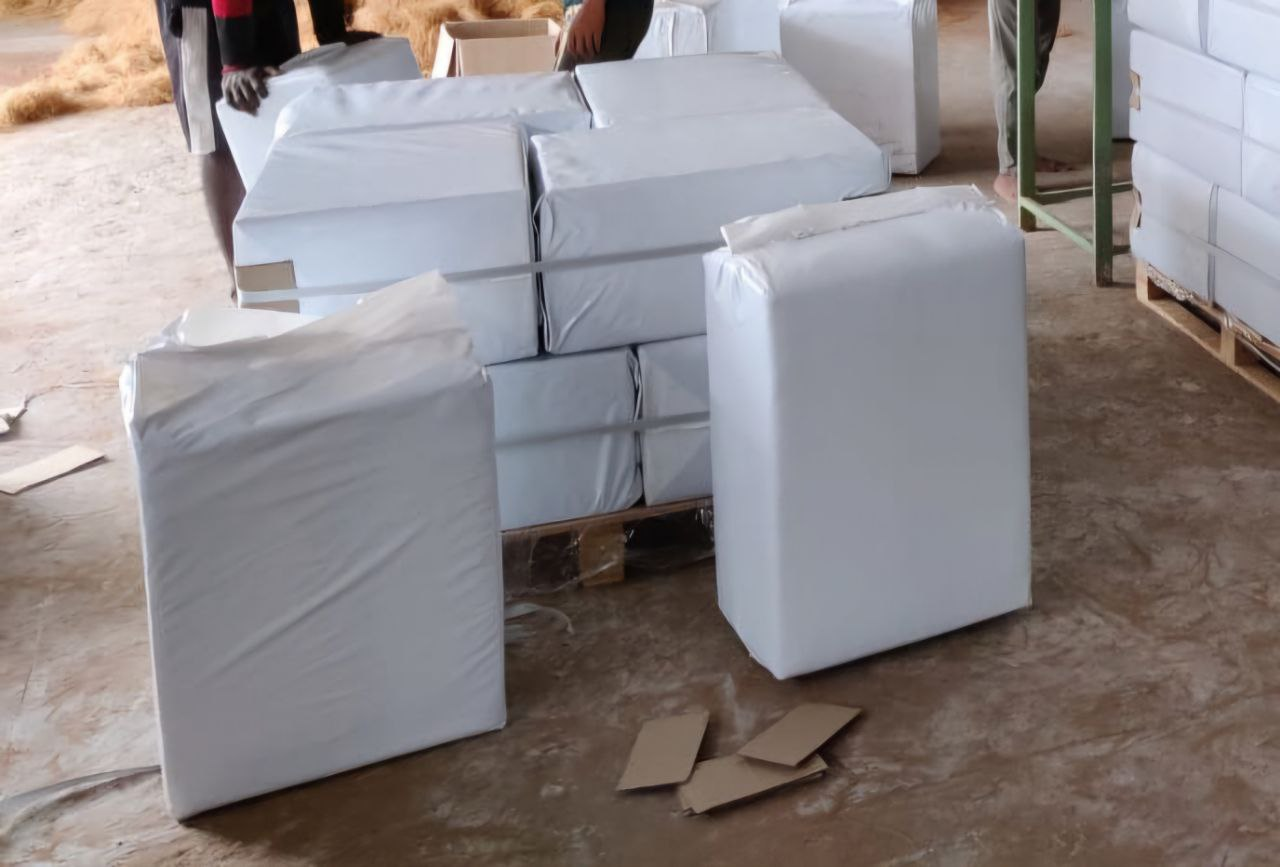
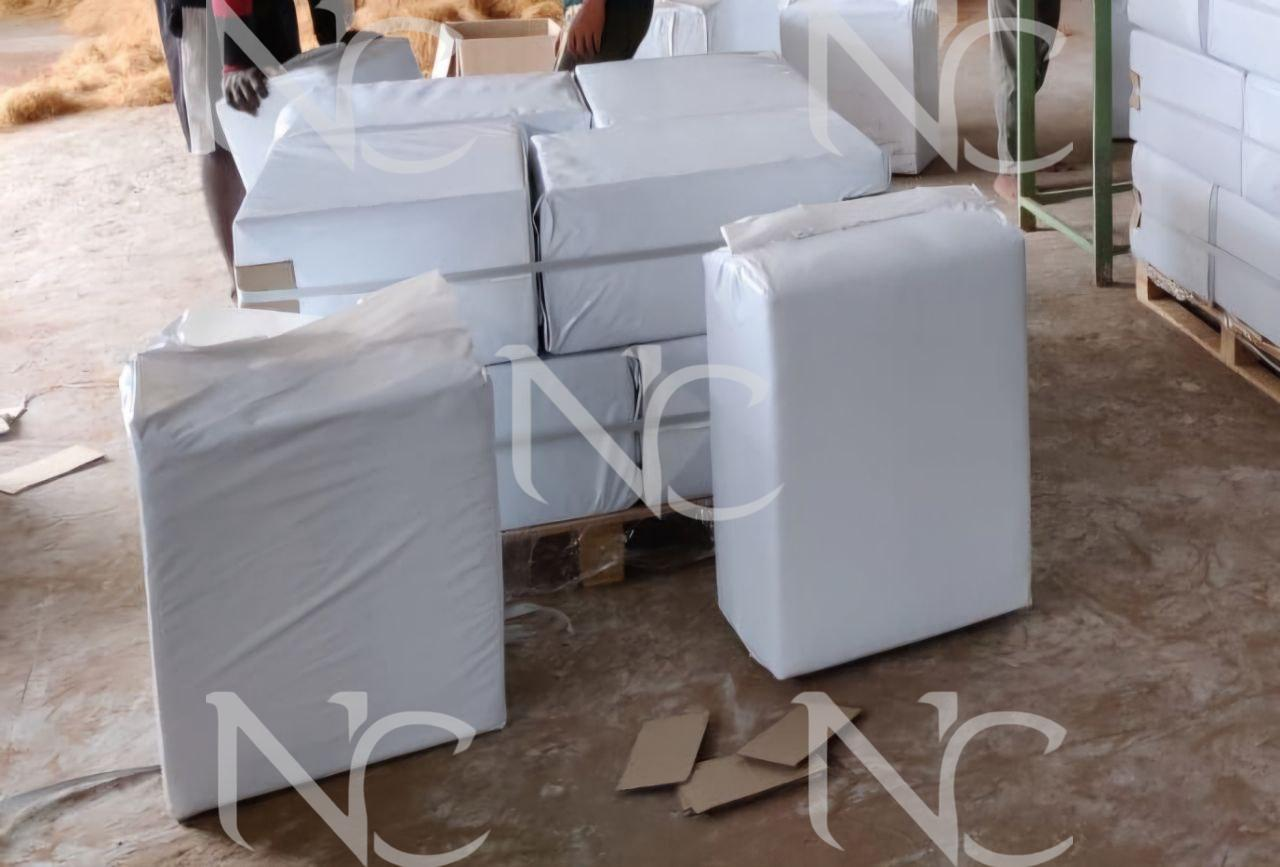
"enhance image part2"

diff --git a/src/data/productSections.js b/src/data/productSections.js
@@ -9,8 +9,9 @@ import block5d from "../assets/products/Cocopeat Blocks/5Kg/single_watermark.png
 import block5e from "../assets/products/Cocopeat Blocks/5Kg/1_block.jpg";
 import block5f from "../assets/products/Cocopeat Blocks/5Kg/2_blocks.jpg";
 import block5g from "../assets/products/Cocopeat Blocks/5Kg/mini_rows.jpg";
-import block5h from "../assets/products/Cocopeat Blocks/5Kg/coir pith block 2.jpg";
-import block5i from "../assets/products/Cocopeat Blocks/5Kg/packed.jpg";
+import block5h from "../assets/products/Cocopeat Blocks/5Kg/rows_copy.jpg";
+import block5i from "../assets/products/Cocopeat Blocks/5Kg/coir pith block 2.jpg";
+import block5j from "../assets/products/Cocopeat Blocks/5Kg/packed.jpg";
 
 
 //Coco Chips Blocks
@@ -22,10 +23,9 @@ import chips5 from "../assets/products/Coco Chips Blocks/packed.jpg";
 import chips6 from "../assets/products/Coco Chips Blocks/packed_with_powder.jpg"; 
 
 //Cocopeat Blocks 2Kg
-import block2a from "../assets/products/Cocopeat Blocks/2Kg/rows.jpg";
-import block2b from "../assets/products/Cocopeat Blocks/2Kg/packed.jpg";
-import block2c from "../assets/products/Cocopeat Blocks/2Kg/row.png";
-import block2d from "../assets/products/Cocopeat Blocks/2Kg/blocks.png";
+import block2a from "../assets/products/Cocopeat Blocks/2Kg/blocks.png";
+import block2b from "../assets/products/Cocopeat Blocks/2Kg/row.png";
+import block2c from "../assets/products/Cocopeat Blocks/2Kg/packed.jpg";
 
 //Cocopeat Blocks 1Kg
 import block1a from "../assets/products/Cocopeat Blocks/1Kg/image2.jpg";
@@ -57,7 +57,7 @@ import coirFibre30Kg3 from "../assets/products/Coir Fibre/30 Kg Bale/image3.jpg"
 import coirFibre30Kg4 from "../assets/products/Coir Fibre/30 Kg Bale/image4.jpg";
 
 // Coir Yarn - 2 Ply 7 mm
-import ply7mm22_1 from "../assets/products/Coir Yarn/2 Ply 7 mm/2 Ply 7mm 22Inches (HALF Kg PCS) 17.jpg";
+import ply7mm22_1 from "../assets/products/Coir Yarn/2 Ply 7 mm/2 Ply 7mm 22Inches (HALF Kg PCS) 32.jpg";
 import ply7mm22_2 from "../assets/products/Coir Yarn/2 Ply 7 mm/2 Ply 7mm 22Inches (HALF Kg PCS) 20.jpg";
 import ply7mm22_3 from "../assets/products/Coir Yarn/2 Ply 7 mm/2 Ply 7mm 22Inches (HALF Kg PCS) 21.jpg";
 import ply7mm22_4 from "../assets/products/Coir Yarn/2 Ply 7 mm/2 Ply 7mm 22Inches (HALF Kg PCS) 23.jpg";
@@ -67,7 +67,7 @@ import ply7mm22_7 from "../assets/products/Coir Yarn/2 Ply 7 mm/2 Ply 7mm 22Inch
 import ply7mm22_8 from "../assets/products/Coir Yarn/2 Ply 7 mm/2 Ply 7mm 22Inches (HALF Kg PCS) 28.jpg";
 import ply7mm22_9 from "../assets/products/Coir Yarn/2 Ply 7 mm/2 Ply 7mm 22Inches (HALF Kg PCS) 30.jpg";
 import ply7mm22_10 from "../assets/products/Coir Yarn/2 Ply 7 mm/2 Ply 7mm 22Inches (HALF Kg PCS) 31.jpg";
-import ply7mm22_11 from "../assets/products/Coir Yarn/2 Ply 7 mm/2 Ply 7mm 22Inches (HALF Kg PCS) 32.jpg";
+import ply7mm22_11 from "../assets/products/Coir Yarn/2 Ply 7 mm/2 Ply 7mm 22Inches (HALF Kg PCS) 17.jpg";
 import ply7mm22_12 from "../assets/products/Coir Yarn/2 Ply 7 mm/2 Ply 7mm 22Inches (HALF Kg PCS).jpg";
 import ply7mm22_13 from "../assets/products/Coir Yarn/2 Ply 7 mm/2 Ply 7mm 22Inches (One Kg PCS) 1.jpg";
 import ply7mm22_14 from "../assets/products/Coir Yarn/2 Ply 7 mm/2 Ply 7mm 22Inches 1.jpg";
@@ -162,11 +162,11 @@ export const productSections = [
             products: [
             {
                 name: "5 Kg", //husk chips blocks
-                images: [image1, block5a, block5b, block5c, block5d, block5e, block5f, block5g, block5h, block5i, chips1, chips2, chips3, chips4, chips5, chips6],
+                images: [image1, block5a, block5b, block5c, block5d, block5e, block5f, block5g, block5h, block5i, block5j, chips1, chips2, chips3, chips4, chips5, chips6],
             },
             {
                 name: "2 Kg",
-                images: [block2a, block2b, block2c, block2d],
+                images: [block2a, block2b, block2c],
             },
             {
                 name: "1 Kg",

diff --git a/watermark.py b/watermark.py
@@ -12,8 +12,8 @@ def reduce_opacity(image, opacity=0.3):
     image.putalpha(alpha)
     return image
 
-input_folder = "/Users/fahima.begum/personal/NC/Website/NaturalCoirs/12_july_products"
-output_folder = "/Users/fahima.begum/personal/NC/Website/NaturalCoirs/12_july_products_watermarked"
+input_folder = "/Users/fahima.begum/personal/NC/Website/NaturalCoirs/12_july_products/enhance_image"
+output_folder = "/Users/fahima.begum/personal/NC/Website/NaturalCoirs/12_july_products_watermarked/enhance_image"
 watermark_path = "/Users/fahima.begum/personal/NC/Website/NaturalCoirs/Products/Copy of NC Package Label - 1 (6)-Photoroom.png"  # Path to your watermark image
 
 # Load watermark and ensure it's RGBA
